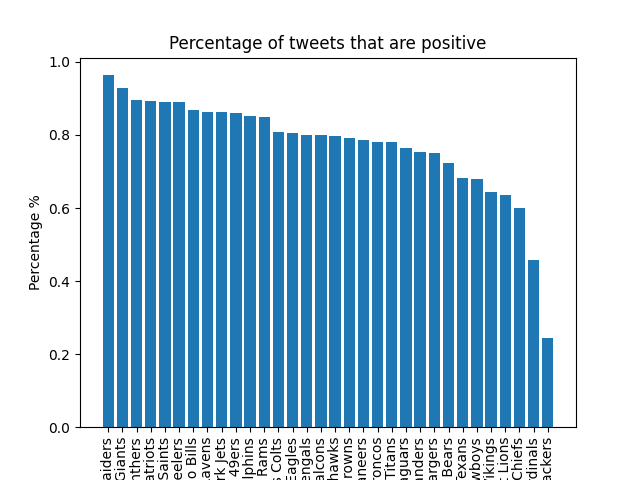
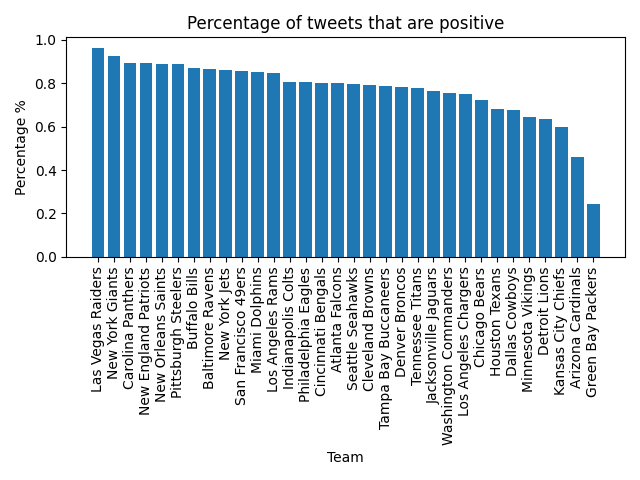
1 aug 2022

diff --git a/app/cron.py b/app/cron.py
@@ -336,7 +336,8 @@ def Perctweets():
     filepath = '/home/codenomad/Documents/GitHub/datasport/app/static/image/plot1.png'
     if os.path.isfile(filepath):
         os.remove(filepath) 
-    # plt.figure(figsize=(15,13)) 
+    # plt.figure(figsize=(15,13))
+    plt.tight_layout() 
     plt.savefig(filepath)
     plt.close()
 
@@ -465,6 +466,7 @@ def Plot2():
     if os.path.isfile(filepath):
         os.remove(filepath) 
     # plt.figure(figsize=(15,13)) 
+    plt.tight_layout()
     plt.savefig(filepath)
     plt.close()
 
@@ -588,6 +590,7 @@ def Plot3():
     if os.path.isfile(filepath):
         os.remove(filepath) 
     # plt.figure(figsize=(15,13)) 
+    plt.tight_layout()
     plt.savefig(filepath)
     plt.close()
    
